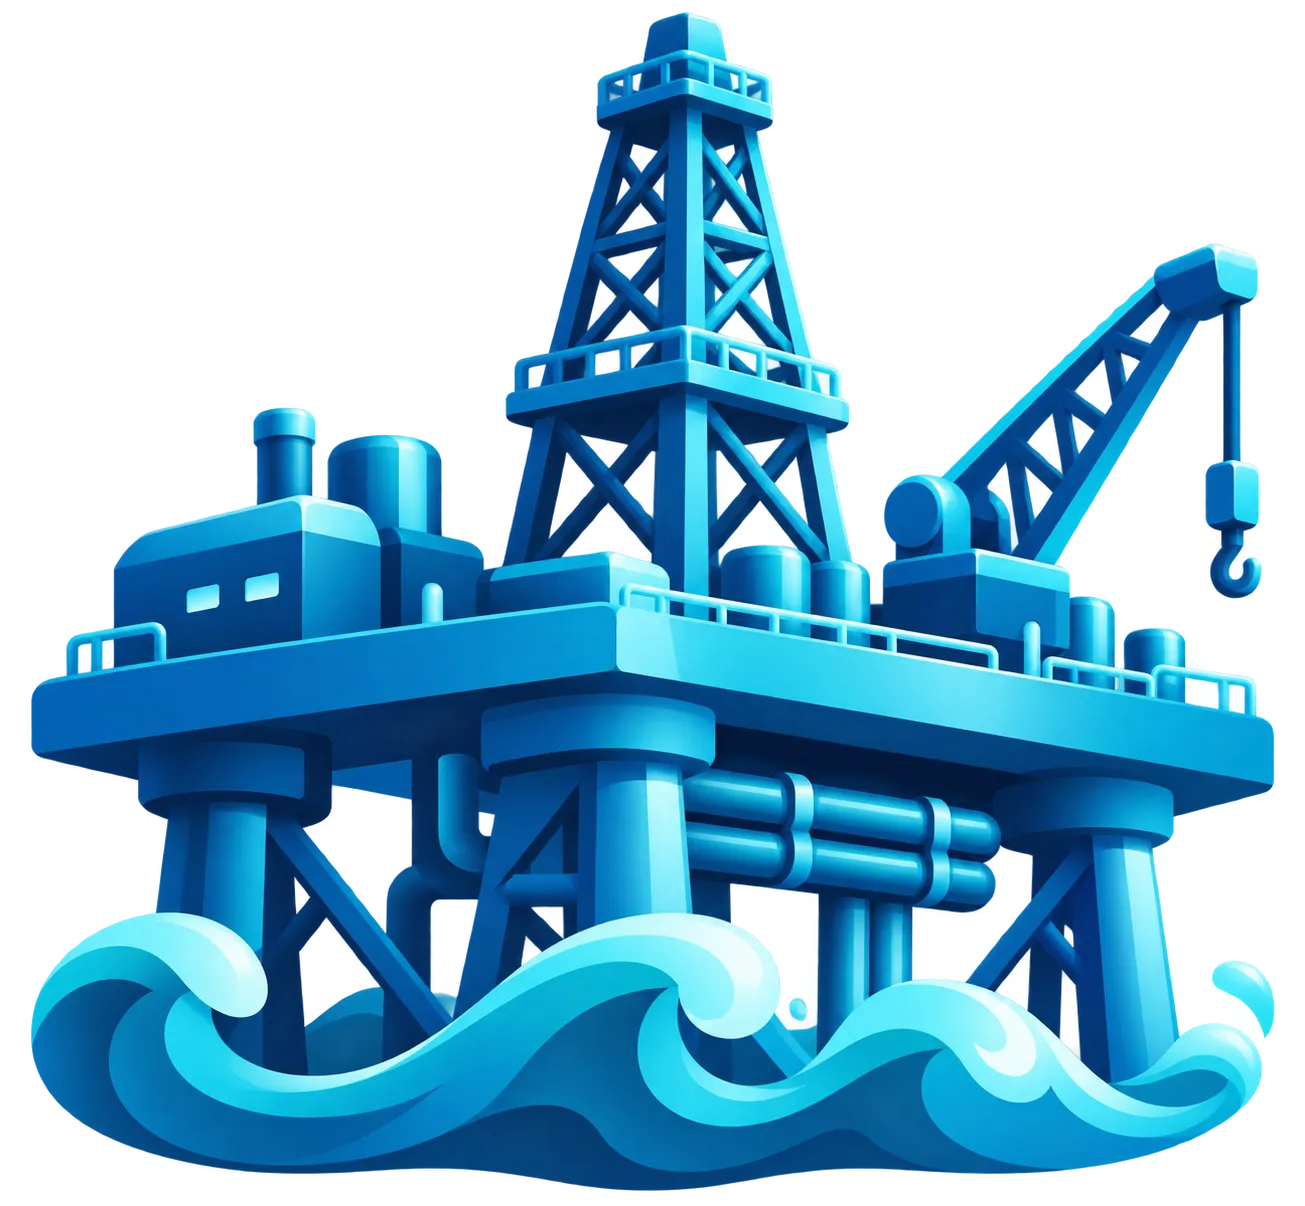
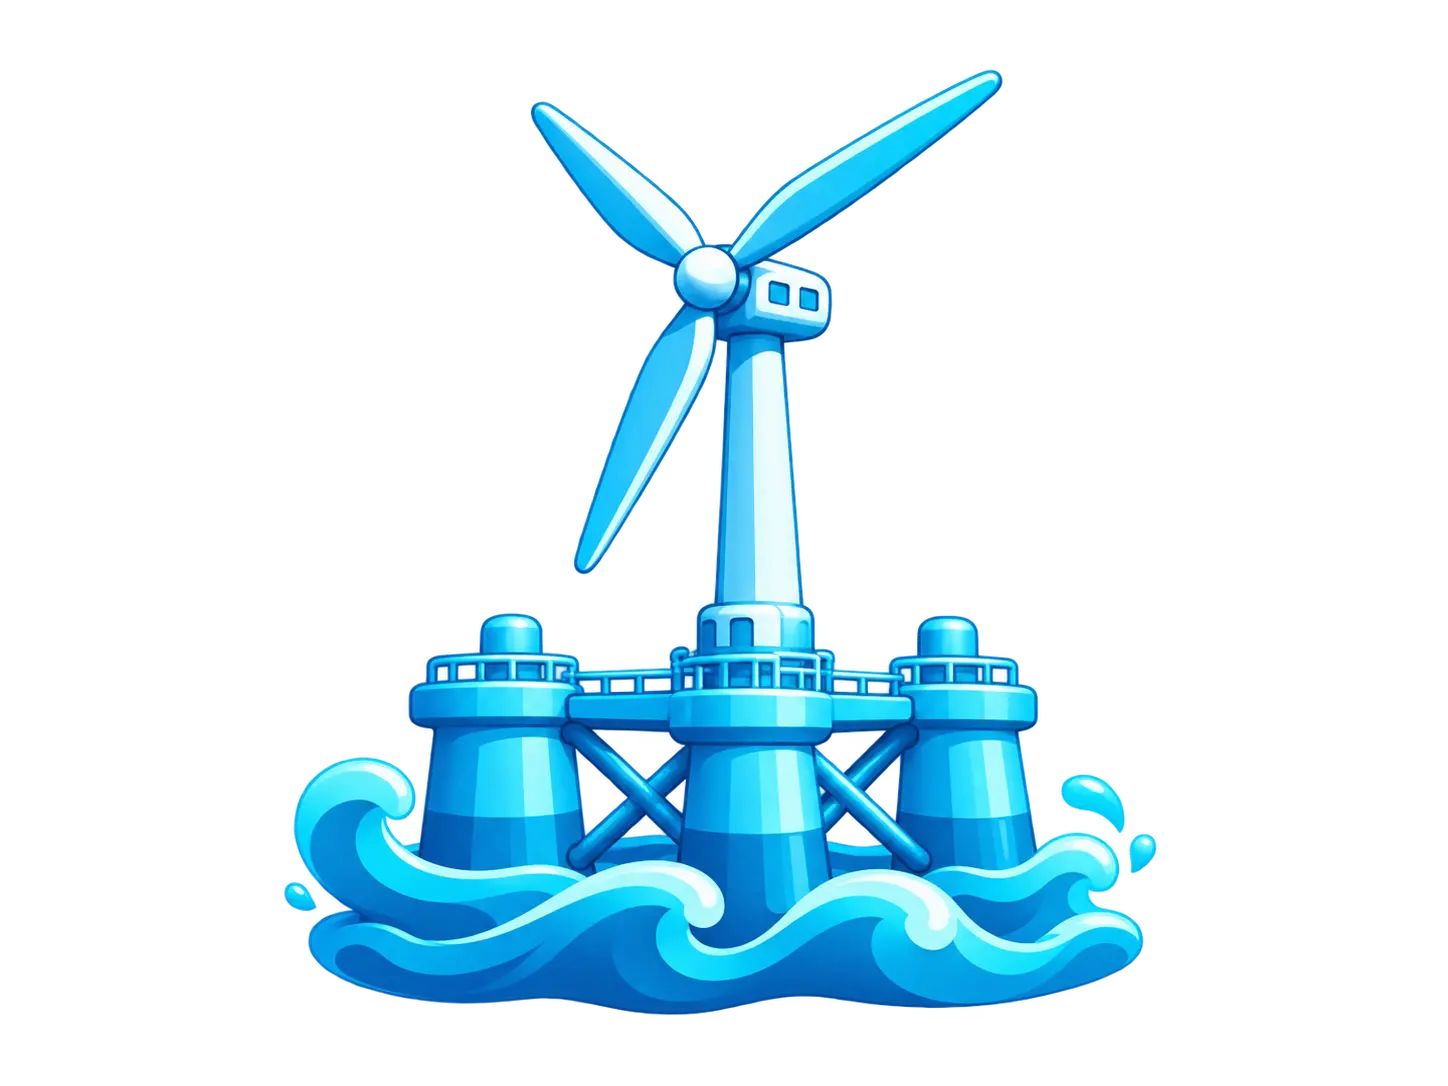
feat: change pic n change event desc

diff --git a/src/features/events/talkshowContent.ts b/src/features/events/talkshowContent.ts
@@ -11,25 +11,37 @@ type TalkshowContent = {
   title: string;
   subtitle: string;
   description: string;
+  subThemes: { title: string; description: string }[];
   speakers: SpeakerEntry[];
   sessionDate?: string;
   sessionTime?: string;
   venue?: string;
+  venueLocalName?: string;
   registrationFormReady: boolean;
   registrationHref: string;
 };
 
-// The event API currently provides only a list summary. Session time, venue,
-// speakers, and contact details have not been supplied by the organizers.
+// Session details supplied by the organizers; speakers are awaiting announcement.
 export const talkshowContent: TalkshowContent = {
   title: "Ocean Talkshow",
   subtitle: "Tema talkshow akan diumumkan oleh panitia",
   description:
-    "The Indonesia Ocean Expo 2027 Ocean Talkshow event brings together leaders and experts from government, industry, and academia to explore strategic visions for Indonesia’s maritime future. Focusing on sustainable energy, smart port logistics, coastal protection, dredging, and marine conservation, this high-level panel discusses policy, technology, and investment strategies needed to drive a sustainable and digitally transformed maritime ecosystem.",
+    "The IOE 2027 Seminar and Keynote Sessions convene leaders from government, state-owned enterprises, energy companies, and academic institutions to discuss the future of Indonesia's maritime ecosystem. Spanning across five pivotal sub-themes, the sessions explore:",
+  subThemes: [
+    { title: "Sustainable Ocean Energy", description: "Powering the energy transition through offshore wind, wave, and tidal energy." },
+    { title: "Ports, Shipping & Maritime Logistics", description: "Decarbonizing supply chains and modernizing smart, green ports." },
+    { title: "Coastal Protection & Resilience", description: "Engineering climate-resilient coastlines against erosion and sea-level rise." },
+    { title: "Dredging & Reclamation", description: "Sustainable dredging practices and responsible coastal land development." },
+    { title: "Marine Environment & Conservation", description: "Preserving marine ecosystems through eco-engineering and nature-based solutions." },
+  ],
+  sessionDate: "4-5 February 2027",
+  sessionTime: "09.00 - 15.00 WIB",
+  venue: "ITB West Hall",
+  venueLocalName: "Aula Barat ITB",
   speakers: [
-    { role: "narrator", name: "Narator akan diumumkan", affiliation: "Informasi menyusul", image: "/images/events/ioe-speaker-01.svg" },
-    { role: "speaker", name: "Pembicara akan diumumkan", affiliation: "Informasi menyusul", image: "/images/events/ioe-speaker-02.svg" },
-    { role: "speaker", name: "Pembicara akan diumumkan", affiliation: "Informasi menyusul", image: "/images/events/ioe-speaker-03.svg" },
+    { role: "narrator", name: "To Be Announced", affiliation: "Informasi menyusul", image: "/images/events/ioe-speaker-01.svg" },
+    { role: "speaker", name: "To Be Announced", affiliation: "Informasi menyusul", image: "/images/events/ioe-speaker-02.svg" },
+    { role: "speaker", name: "To Be Announced", affiliation: "Informasi menyusul", image: "/images/events/ioe-speaker-03.svg" },
   ] as SpeakerEntry[],
   // The route exists, but its form is still a placeholder. Flip this only once
   // the real event registration form and submission flow have been implemented.
@@ -50,6 +62,6 @@ export const talkshowFaqs: AccordionItemData[] = [
     value: "details",
     question: "Kapan jadwal dan lokasi Talkshow diumumkan?",
     answer:
-      "Jadwal sesi dan lokasi resmi belum tersedia di halaman ini. Informasinya akan ditampilkan setelah diumumkan oleh panitia.",
+      "Talkshow berlangsung pada 4-5 February 2027, pukul 09.00 - 15.00 WIB di ITB West Hall (Aula Barat ITB).",
   },
 ];

diff --git a/src/features/events/TalkshowPage.tsx b/src/features/events/TalkshowPage.tsx
@@ -92,6 +92,19 @@ function MetadataLine({ icon, children }: { icon: string; children: React.ReactN
   );
 }
 
+function TalkshowDescription({ className }: { className: string }) {
+  return (
+    <div className={className}>
+      <p>{talkshowContent.description}</p>
+      <ul className="mt-4 list-disc space-y-2 pl-6 text-start">
+        {talkshowContent.subThemes.map((theme) => (
+          <li key={theme.title}><strong>{theme.title}:</strong> {theme.description}</li>
+        ))}
+      </ul>
+    </div>
+  );
+}
+
 function TalkshowHero({ state, feedback }: { state: RegistrationState; feedback: React.ReactNode }) {
   return (
     <section aria-labelledby="talkshow-title" className={`${shell} flex flex-col items-center gap-8 pt-10 lg:flex-row lg:justify-between`}>
@@ -100,7 +113,7 @@ function TalkshowHero({ state, feedback }: { state: RegistrationState; feedback:
           <h1 id="talkshow-title" className="font-heading text-h3 leading-tight text-secondary-1000 md:text-h1">{talkshowContent.title}</h1>
           <p className="mt-2 font-ui text-b1 font-semibold leading-snug text-secondary-800 md:text-h5">{talkshowContent.subtitle}</p>
         </div>
-        <p className="mt-4 max-w-[38rem] font-body text-b3 leading-relaxed text-neutral-800 md:text-b2">{talkshowContent.description}</p>
+        <TalkshowDescription className="mt-4 max-w-[38rem] font-body text-b3 leading-relaxed text-neutral-800 md:text-b2" />
         <div className="mt-8 grid w-full max-w-[29rem] grid-cols-1 gap-3 min-[380px]:grid-cols-[3fr_2fr] md:gap-6">
           <RegistrationAction state={state} className="w-full" />
           <a href="#talkshow-details" className={`${action} w-full`}>
@@ -117,7 +130,7 @@ function TalkshowHero({ state, feedback }: { state: RegistrationState; feedback:
   );
 }
 
-function ScheduleItem({ icon, label, value, className = "" }: { icon: string; label: string; value: string; className?: string }) {
+function ScheduleItem({ icon, label, value, className = "" }: { icon: string; label: string; value: React.ReactNode; className?: string }) {
   return (
     <div className={`flex min-w-0 items-center justify-center gap-3 text-b3 md:text-b2 lg:justify-start ${className}`}>
       <Icon icon={icon} className="size-5 shrink-0 text-secondary-800" aria-hidden="true" />
@@ -153,10 +166,10 @@ function TalkshowDetails({ state }: { state: RegistrationState }) {
             <div className="relative z-10 grid w-full grid-cols-2 items-center gap-2 rounded-full bg-transparent px-6 py-4 transition-colors lg:flex lg:justify-between lg:gap-4 lg:px-12">
               <ScheduleItem icon="mdi:calendar-range" label="Tanggal" value={talkshowContent.sessionDate ?? "Menyusul"} />
               <ScheduleItem icon="mdi:timer-outline" label="Waktu" value={talkshowContent.sessionTime ?? "Menyusul"} />
-              <ScheduleItem icon="mdi:map-marker" label="Lokasi" value={talkshowContent.venue ?? "Menyusul"} className="col-span-2 lg:col-span-1" />
+              <ScheduleItem icon="mdi:map-marker" label="Lokasi" value={talkshowContent.venue ? <>{talkshowContent.venue}{talkshowContent.venueLocalName && <> (<em>{talkshowContent.venueLocalName}</em>)</>}</> : "Menyusul"} className="col-span-2 lg:col-span-1" />
             </div>
           </div>
-          <p className="text-center font-body text-b3 text-neutral-800 md:text-b2 lg:text-start lg:text-b1">{talkshowContent.description}</p>
+          <TalkshowDescription className="text-center font-body text-b3 text-neutral-800 md:text-b2 lg:text-start lg:text-b1" />
           <div className="relative"><DetailsRegistrationAction state={state} /></div>
         </div>
       </div>
